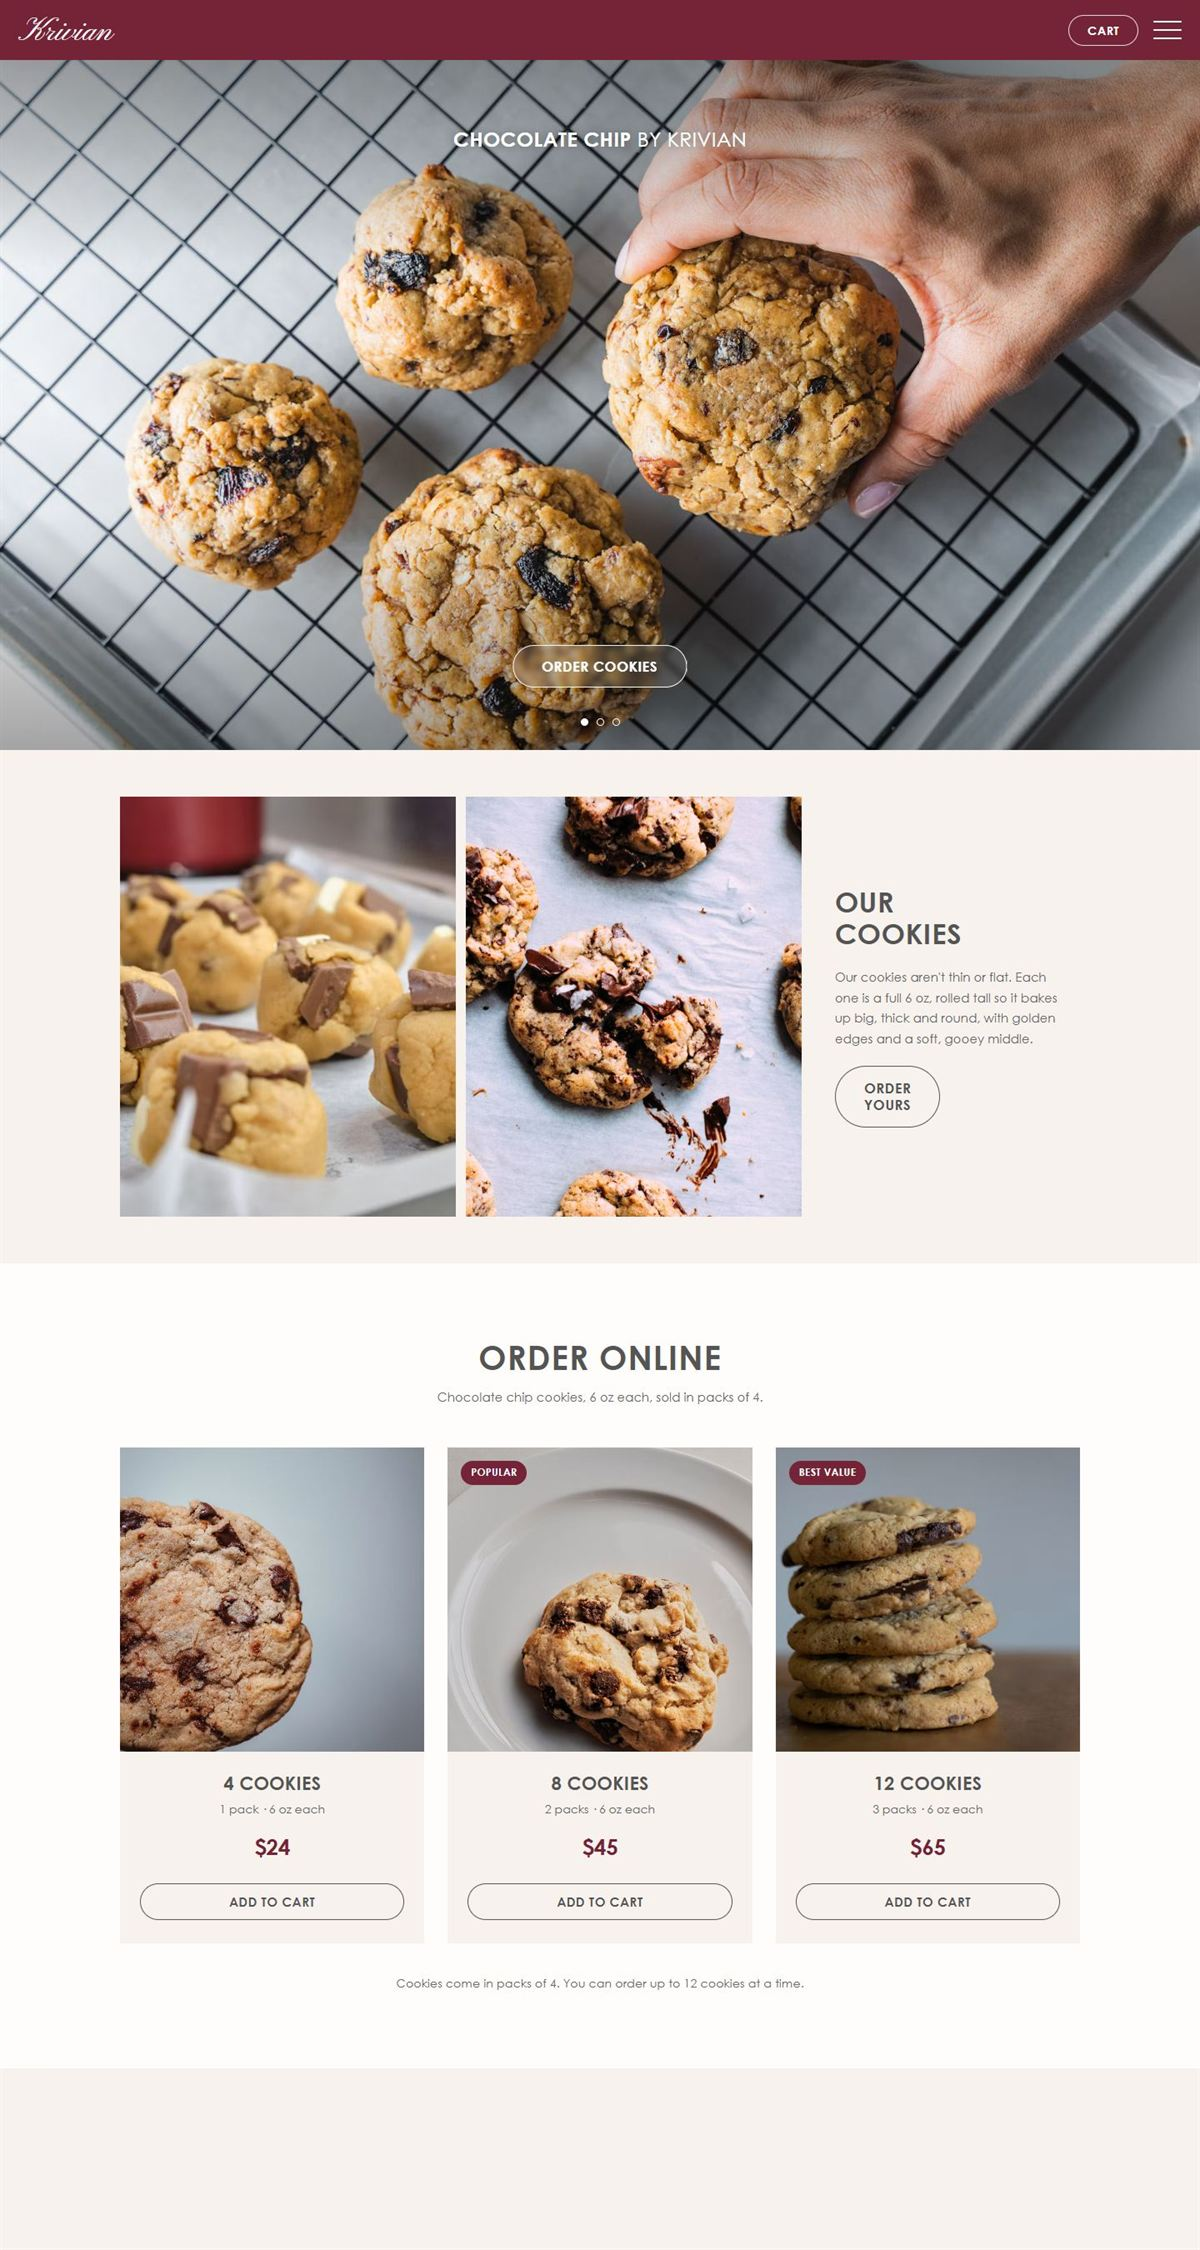
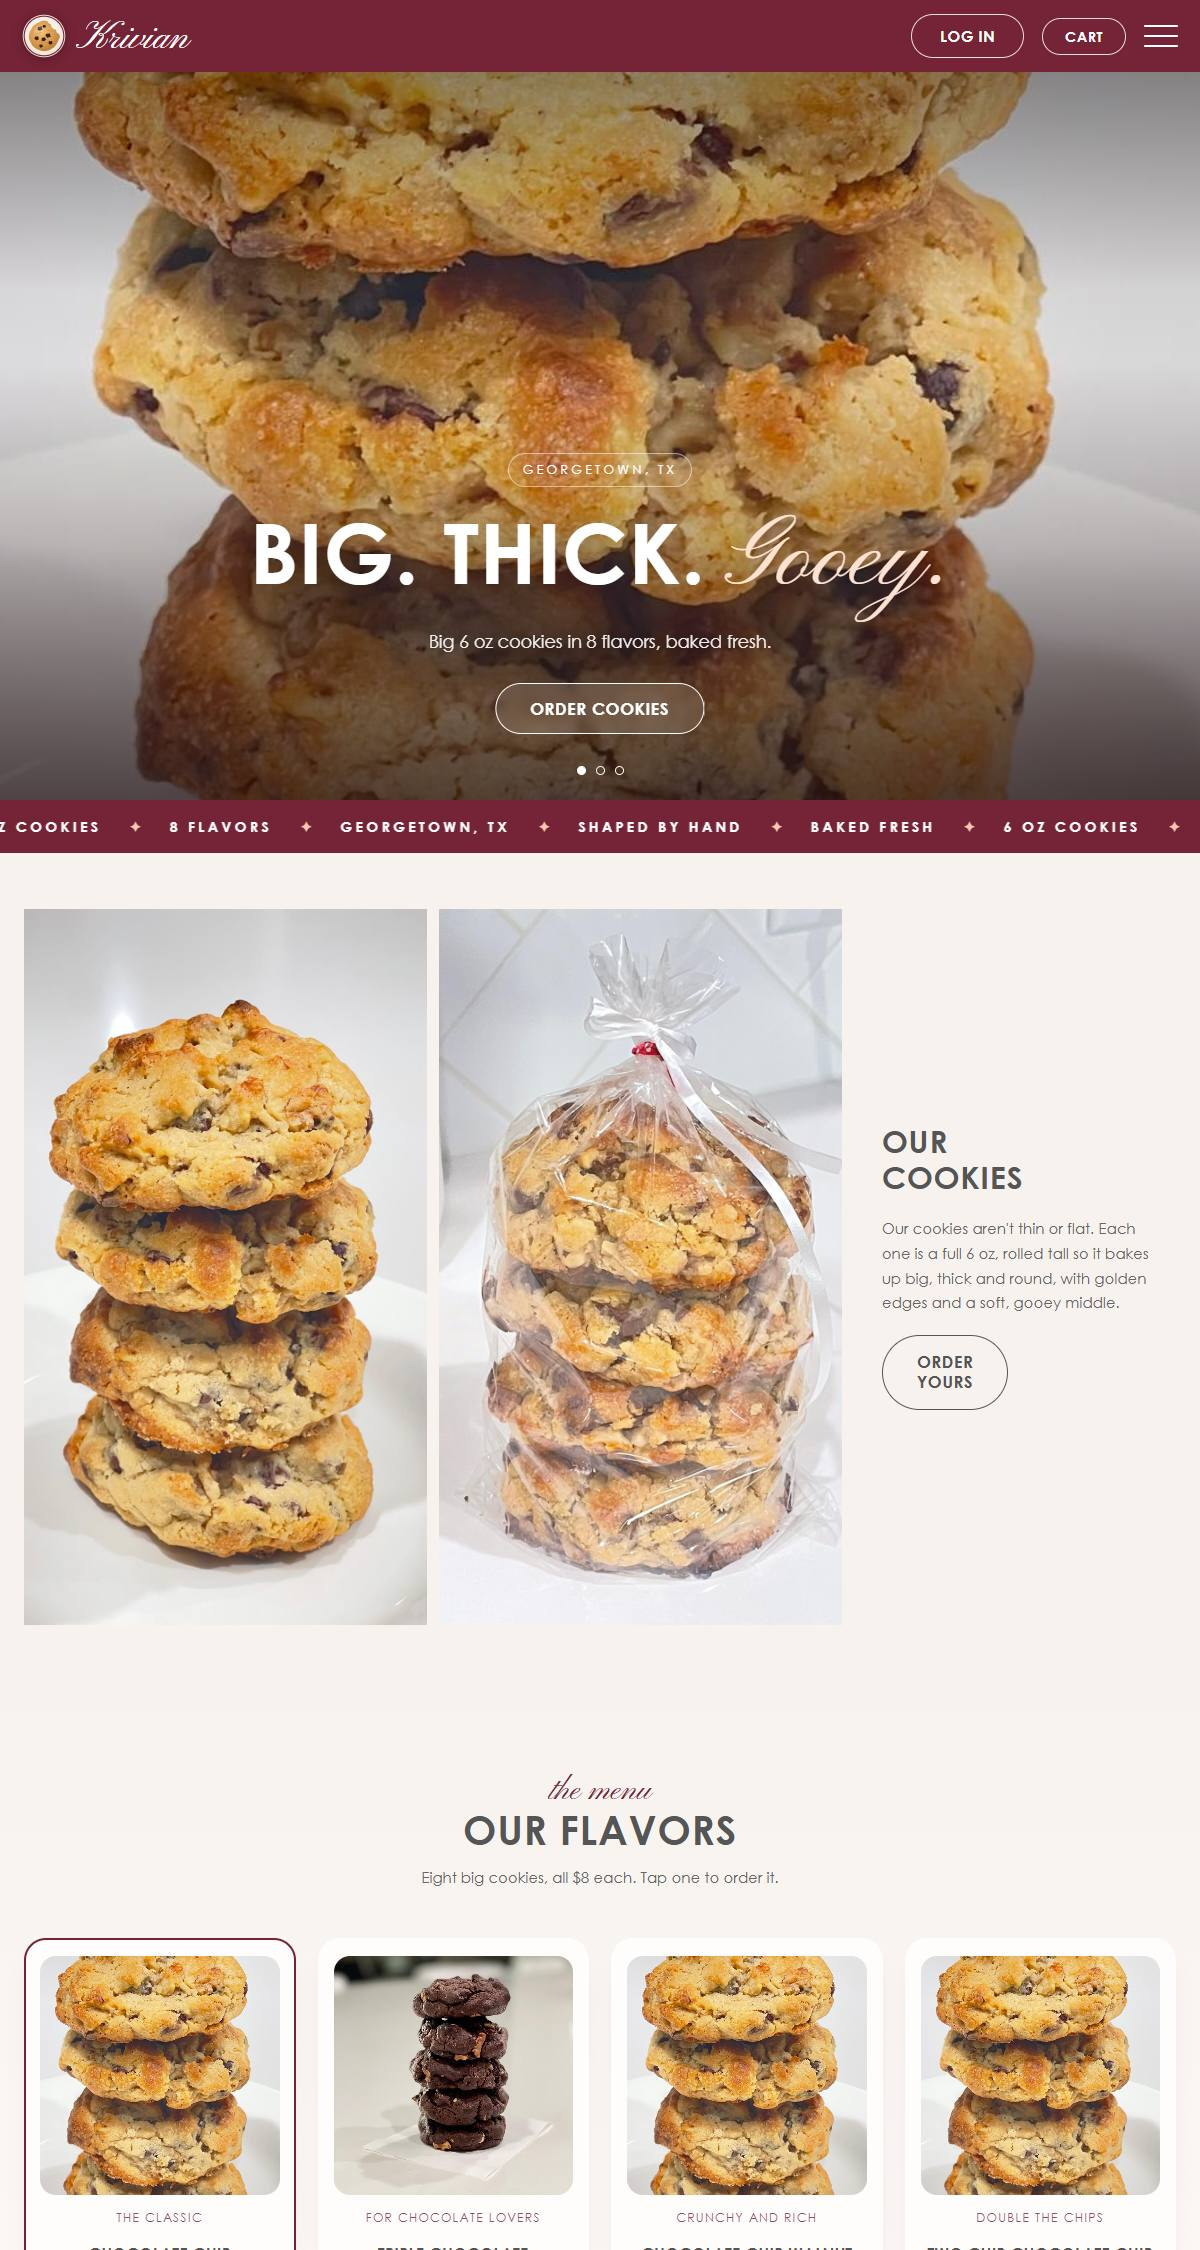
Homepage: fix the Try it sketch (page header styles leaked in and a registered --a hid its colors); fresh Krivian screenshot linking to krivianbakery.com

diff --git a/public/home.css b/public/home.css
@@ -158,14 +158,14 @@ body.home nav a:not(.btn){font-size:15px}
 .tframe .url{margin:0 auto;padding:5px 60px;border-radius:8px;background:rgba(0,0,0,.35);color:var(--soft);font-size:13px}
 .tsite{background:var(--bg);color:var(--fg);min-height:430px;padding:0 0 26px;transition:background .4s,color .4s}
 .tsite nav{display:flex;align-items:center;gap:20px;padding:16px 26px;font-size:14px;border-bottom:1px solid color-mix(in srgb,var(--fg) 10%,transparent)}
-.tsite nav b{font-size:18px;margin-right:auto}.tsite nav span{opacity:.7}.tsite nav i{font-style:normal;background:var(--a);color:#fff;padding:7px 14px;border-radius:999px;font-weight:700}
+.tsite nav b{font-size:18px;margin-right:auto}.tsite nav span{opacity:.7}.tsite nav i{font-style:normal;background:var(--ac);color:#fff;padding:7px 14px;border-radius:999px;font-weight:700}
 .tsite header{text-align:center;padding:48px 26px 34px}.tsite header small{letter-spacing:.2em;text-transform:uppercase;opacity:.6;font-size:12px}
-.tsite header h3{font-size:clamp(30px,4vw,52px);line-height:1.05;margin:10px 0;color:var(--a);letter-spacing:-.02em}
+.tsite header h3{font-size:clamp(30px,4vw,52px);line-height:1.05;margin:10px 0;color:var(--ac);letter-spacing:-.02em}
 .tsite header p{opacity:.8;font-size:17px}.tsite header div{display:flex;gap:12px;justify-content:center;margin-top:20px}
-.tsite header i{font-style:normal;background:var(--a);color:#fff;padding:11px 20px;border-radius:12px;font-weight:700}.tsite header u{text-decoration:none;padding:11px 20px;border-radius:12px;border:1px solid color-mix(in srgb,var(--fg) 25%,transparent)}
+.tsite header i{font-style:normal;background:var(--ac);color:#fff;padding:11px 20px;border-radius:12px;font-weight:700}.tsite header u{text-decoration:none;padding:11px 20px;border-radius:12px;border:1px solid color-mix(in srgb,var(--fg) 25%,transparent)}
 .tsite section{display:grid;grid-template-columns:repeat(3,1fr);gap:14px;padding:0 26px}
 .tsite section div{background:var(--card);border-radius:14px;padding:16px;display:flex;flex-direction:column;gap:8px}
-.tsite section em{display:block;height:70px;border-radius:10px;background:linear-gradient(135deg,var(--a),color-mix(in srgb,var(--a) 40%,var(--card)))}
+.tsite section em{display:block;height:70px;border-radius:10px;background:linear-gradient(135deg,var(--ac),color-mix(in srgb,var(--ac) 40%,var(--card)))}
 .tsite section span{height:8px;border-radius:9px;background:color-mix(in srgb,var(--fg) 15%,transparent)}.tsite section span:last-child{width:60%}
 .tsite.go nav,.tsite.go header,.tsite.go section div{animation:pop .6s cubic-bezier(.2,.8,.2,1) both}
 .tsite.go header{animation-delay:.08s}
@@ -256,3 +256,7 @@ body.menu-open .menu-btn span:nth-child(1){transform:translateY(7px) rotate(45de
 }
 .hx .rv{opacity:1;transform:none;animation:hxin .55s cubic-bezier(.2,.7,.2,1) both}.hx .rv.d1{animation-delay:.05s}.hx .rv.d2{animation-delay:.1s}.hx .rv.d3{animation-delay:.15s}@keyframes hxin{from{opacity:0;transform:translateY(16px)}}@media (prefers-reduced-motion:reduce){.hx .rv{animation:none}}
 @media (max-width:900px){body.home.menu-open nav{background:#100c26!important;backdrop-filter:none!important;box-shadow:0 30px 80px -10px rgba(0,0,0,.9)}body.home.menu-open::after{content:"";position:fixed;inset:0;background:rgba(3,2,12,.6);z-index:30;pointer-events:none}body.home.menu-open header{z-index:60}}
+
+/* the Try it sketch is its own little website: don't let the page's header/nav styles leak in */
+body.home .tryit .tsite header{position:static;display:block;background:none;backdrop-filter:none;-webkit-backdrop-filter:none;border:0;box-shadow:none;transition:none;padding:48px 26px 34px;z-index:auto}
+body.home .tryit .tsite nav{position:static;background:none!important;backdrop-filter:none!important;box-shadow:none!important;transform:none;opacity:1;visibility:visible;inset:auto;height:auto;width:auto;flex-direction:row}

diff --git a/public/index.html b/public/index.html
@@ -93,7 +93,7 @@
 
   <div class="sh rv" id="work"><span class="eyebrow">Our work</span><h2>Real websites.<br>Built by us.</h2><p>We built these. Hover to scroll through them.</p></div>
   <section class="show">
-    <a class="shot feature rv" href="https://krivian-bakery.thebluedragonstriker.workers.dev/" target="_blank" rel="noopener"><div class="win"><img src="/ex-krivian.jpg" alt="Krivian Bakery website" loading="lazy" decoding="async"></div><div class="cap"><b>Krivian Bakery</b><span>Family bakery · order cookies online · visit the live site ↗</span></div></a>
+    <a class="shot feature rv" href="https://krivianbakery.com/" target="_blank" rel="noopener"><div class="win"><img src="/ex-krivian.jpg" alt="Krivian Bakery website" loading="lazy" decoding="async"></div><div class="cap"><b>Krivian Bakery</b><span>Family bakery · order cookies online · visit the live site ↗</span></div></a>
     <div class="shot rv"><div class="win"><img src="/ex-goldenbatch.jpg" alt="Golden Batch cookie shop website" loading="lazy" decoding="async"></div><div class="cap"><b>Golden Batch</b><span>Cookie shop · online ordering</span></div></div>
     <div class="shot rv d1"><div class="win"><img src="/ex-creator.jpg" alt="BaseWeb AI startup website" loading="lazy" decoding="async"></div><div class="cap"><b>BaseWeb AI</b><span>Startup · landing page</span></div></div>
   </section>
@@ -182,7 +182,7 @@ watch();
     const n = document.getElementById("tName").value.trim() || "Your business", w = document.getElementById("tWhat").value.trim() || "What you do, in one line", c = ST[style];
     document.getElementById("tUrl").textContent = n.toLowerCase().replace(/[^a-z0-9]+/g, "") + ".com";
     const site = document.getElementById("tSite");
-    site.style.cssText = `--a:${c.a};--bg:${c.bg};--fg:${c.fg};--card:${c.card};font-family:${c.font}`;
+    site.style.cssText = `--ac:${c.a};--bg:${c.bg};--fg:${c.fg};--card:${c.card};font-family:${c.font}`;
     site.innerHTML = `<nav><b>${esc(n)}</b><span>Home</span><span>About</span><span>Contact</span><i>Order</i></nav>
       <header><small>Welcome to</small><h3>${esc(n)}</h3><p>${esc(w)}</p><div><i>Get started</i><u>Learn more</u></div></header>
       <section>${["Our story", "What we offer", "Find us"].map((h, k) => `<div style="animation-delay:${k * .12}s"><em></em><b>${h}</b><span></span><span></span></div>`).join("")}</section>`;
